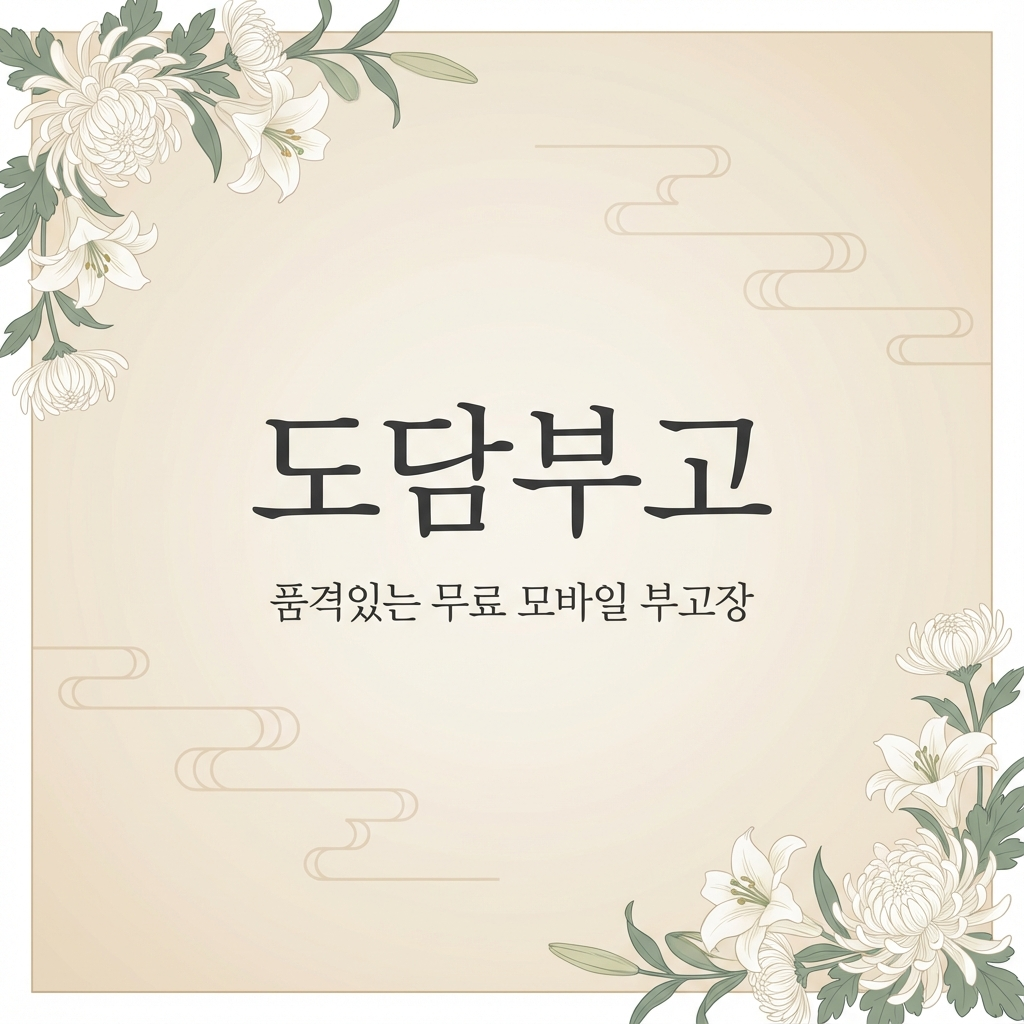
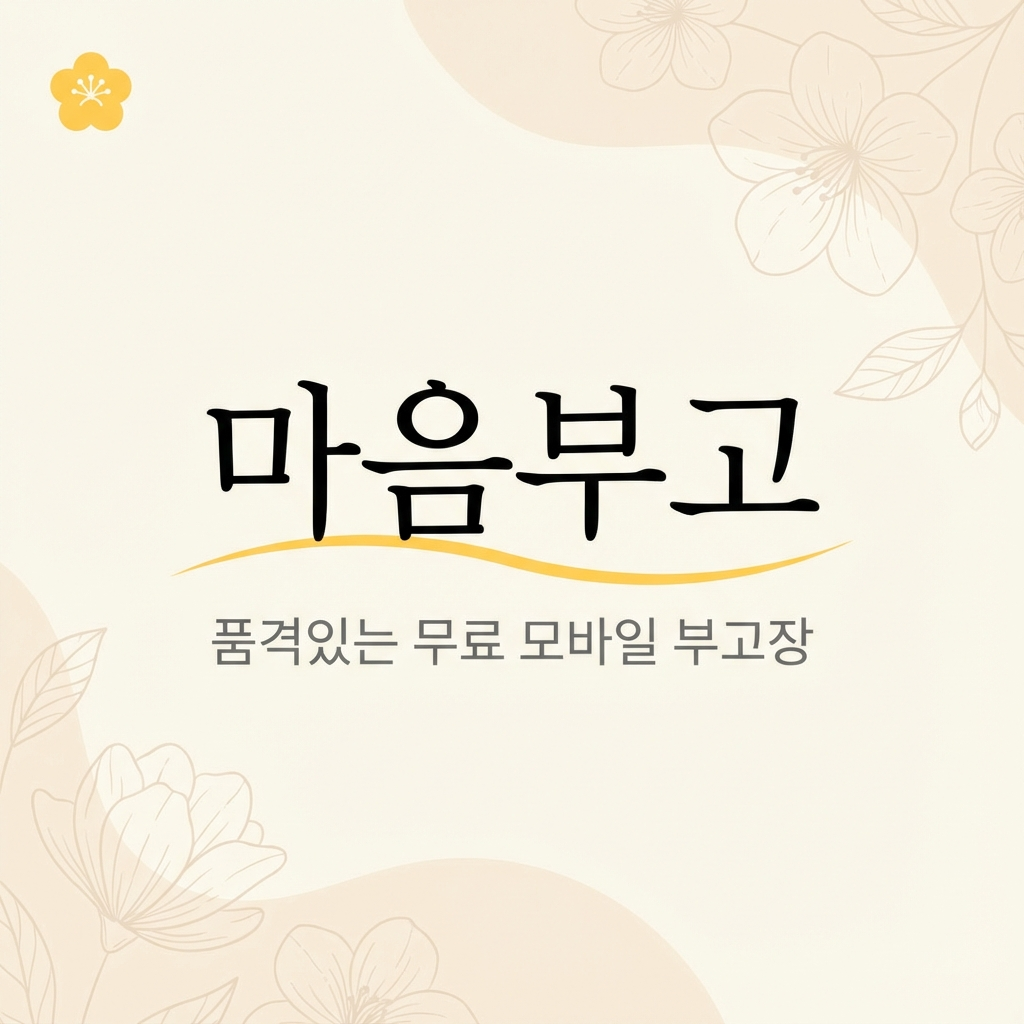
feat: 마음부고 OG 이미지 교체
- 새 브랜드 OG 이미지 생성 및 적용
- TODO 완료 처리

Changed region(s): [[0.0, 0.0, 1.0, 1.0], [0.1875, 0.375, 0.8125, 0.6562]]

diff --git a/app/page.tsx b/app/page.tsx
@@ -116,10 +116,16 @@ export default function HomePage() {
 
       setIsSearching(true);
       try {
+        // 1달 전 날짜 계산
+        const oneMonthAgo = new Date();
+        oneMonthAgo.setDate(oneMonthAgo.getDate() - 30);
+        const oneMonthAgoStr = oneMonthAgo.toISOString().split('T')[0];
+
         const { data, error } = await supabase
           .from('bugo')
           .select('id, bugo_number, deceased_name, mourner_name, funeral_date')
           .or(`deceased_name.ilike.%${searchQuery}%,mourner_name.ilike.%${searchQuery}%`)
+          .gte('funeral_date', oneMonthAgoStr) // 1달 이내만
           .order('created_at', { ascending: false })
           .limit(10);
 
@@ -405,8 +411,8 @@ export default function HomePage() {
           <h2 className="xd-guide-title">부고장 작성방법</h2>
           <div className="xd-guide-card">
             <p className="xd-guide-text">
-              고인 정보와 상주 연락처, 장례 일정만 입력하면 모바일 부고장이 완성됩니다.
-              간단한 정보 입력만으로 정중한 부고장을 만들 수 있습니다.
+              고인 정보와 상주 연락처, 장례 일정만 입력하면 정중한 모바일 부고장이 완성됩니다.
+              카카오톡, 문자, 밴드로 간편하게 전달하세요.
             </p>
           </div>
         </section>
@@ -496,40 +502,47 @@ export default function HomePage() {
           <div className="faq-list">
             <div className={`faq-item ${openFaqs.has(0) ? 'active' : ''}`} onClick={() => toggleFaq(0)}>
               <div className="faq-question">
-                <span>정말 무료인가요?</span>
+                <span>회원가입 없이 이용 가능한가요?</span>
                 <span className="faq-icon">{openFaqs.has(0) ? '−' : '+'}</span>
               </div>
               <div className="faq-answer">
-                네, 마음부고의 모든 기능은 완전히 무료입니다. 숨겨진 비용이나 유료 업그레이드도 없습니다.
+                네, 회원가입이나 로그인 없이 바로 부고장을 만들 수 있습니다. 간단한 정보 입력만으로 완성됩니다.
               </div>
             </div>
             <div className={`faq-item ${openFaqs.has(1) ? 'active' : ''}`} onClick={() => toggleFaq(1)}>
               <div className="faq-question">
-                <span>부고장은 얼마나 유지되나요?</span>
+                <span>앱 설치 없이도 사용할 수 있나요?</span>
                 <span className="faq-icon">{openFaqs.has(1) ? '−' : '+'}</span>
               </div>
               <div className="faq-answer">
-                생성된 부고장은 영구적으로 유지됩니다. 언제든지 링크를 통해 조회할 수 있습니다.
+                네, 별도의 앱 설치 없이 모바일 웹에서 바로 이용 가능합니다. 카카오톡, 문자, 밴드로 공유하세요.
               </div>
             </div>
             <div className={`faq-item ${openFaqs.has(2) ? 'active' : ''}`} onClick={() => toggleFaq(2)}>
               <div className="faq-question">
-                <span>수정은 가능한가요?</span>
+                <span>부고장은 언제까지 유지되나요?</span>
                 <span className="faq-icon">{openFaqs.has(2) ? '−' : '+'}</span>
               </div>
               <div className="faq-answer">
-                네, 작성 시 입력한 비밀번호(휴대번호 뒷자리)로 언제든지 수정하실 수 있습니다.
+                개인정보 보호를 위해 발인 후 30일까지 열람 가능합니다. 이후에는 자동으로 비공개 처리됩니다.
               </div>
             </div>
             <div className={`faq-item ${openFaqs.has(3) ? 'active' : ''}`} onClick={() => toggleFaq(3)}>
               <div className="faq-question">
-                <span>개인정보는 안전한가요?</span>
+                <span>서비스 이용 중 문의는 어떻게 하나요?</span>
                 <span className="faq-icon">{openFaqs.has(3) ? '−' : '+'}</span>
               </div>
               <div className="faq-answer">
-                입력하신 정보는 부고장 표시 목적으로만 사용되며, 별도로 수집하거나 제3자에게 제공하지 않습니다.
+                문의는 제휴/문의 페이지를 통해 가능합니다. 빠른 시간 내에 답변 드리겠습니다.
               </div>
             </div>
+          </div>
+          {/* 더보기 버튼 */}
+          <div className="faq-more-wrapper">
+            <Link href="/faq" className="faq-more-btn">
+              더보기
+              <span className="material-symbols-outlined">chevron_right</span>
+            </Link>
           </div>
         </div>
       </section>

diff --git a/app/search/page.tsx b/app/search/page.tsx
@@ -15,13 +15,21 @@ export default function SearchPage() {
     const [currentPage, setCurrentPage] = useState(1);
     const itemsPerPage = 10;
 
-    // 최근 부고 목록 불러오기
+    // 1달 전 날짜 계산
+    const getOneMonthAgo = () => {
+        const date = new Date();
+        date.setDate(date.getDate() - 30);
+        return date.toISOString().split('T')[0];
+    };
+
+    // 최근 부고 목록 불러오기 (1달 이내만)
     useEffect(() => {
         const fetchRecentBugo = async () => {
             try {
                 const { data, error } = await supabase
                     .from('bugo')
                     .select('*')
+                    .gte('funeral_date', getOneMonthAgo())
                     .order('created_at', { ascending: false })
                     .limit(100);
 
@@ -47,6 +55,7 @@ export default function SearchPage() {
                 .from('bugo')
                 .select('*')
                 .or(`bugo_number.eq.${query},deceased_name.ilike.%${query}%,mourner_name.ilike.%${query}%`)
+                .gte('funeral_date', getOneMonthAgo())
                 .order('created_at', { ascending: false })
                 .limit(100);
 

diff --git a/app/view/[id]/page.tsx b/app/view/[id]/page.tsx
@@ -258,6 +258,28 @@ ${url}
         );
     }
 
+    // 1달 이상 지난 부고는 비공개 처리
+    const isExpired = () => {
+        if (!bugo.funeral_date) return false;
+        const funeralDate = new Date(bugo.funeral_date);
+        const oneMonthAgo = new Date();
+        oneMonthAgo.setDate(oneMonthAgo.getDate() - 30);
+        return funeralDate < oneMonthAgo;
+    };
+
+    if (isExpired()) {
+        return (
+            <div className="error-container">
+                <div className="error-content">
+                    <div className="error-icon">🕊</div>
+                    <h2>열람 기간이 종료되었습니다</h2>
+                    <p>개인정보 보호를 위해 발인 후 30일이 지난 부고장은 비공개 처리됩니다.</p>
+                    <Link href="/" className="btn-home">홈으로</Link>
+                </div>
+            </div>
+        );
+    }
+
     // 상주 목록 (대표상주 + 추가 상주들, 중복 방지)
     const mournersList: Array<{ relationship: string; name: string; contact: string }> = [];
     if (bugo.mourner_name) {

diff --git a/app/globals.css b/app/globals.css
@@ -909,6 +909,35 @@ section {
     padding: 12px 16px 16px 32px;
 }
 
+/* FAQ 더보기 버튼 */
+.faq-more-wrapper {
+    display: flex;
+    justify-content: center;
+    margin-top: 24px;
+}
+
+.faq-more-btn {
+    display: inline-flex;
+    align-items: center;
+    gap: 4px;
+    padding: 12px 24px;
+    background: #F5F5F5;
+    color: #333333;
+    border-radius: 50px;
+    font-size: 14px;
+    font-weight: 500;
+    text-decoration: none;
+    transition: all 0.2s;
+}
+
+.faq-more-btn:hover {
+    background: #EEEEEE;
+}
+
+.faq-more-btn .material-symbols-outlined {
+    font-size: 18px;
+}
+
 /* ========================================
    Footer
    ======================================== */

diff --git a/PROJECT_STRATEGY.md b/PROJECT_STRATEGY.md
@@ -1,0 +1,103 @@
+# 마음부고 프로젝트 전략
+
+> 최종 업데이트: 2026-01-02
+
+---
+
+## 🎯 프로젝트 정의
+
+**마음부고 = 캐시카우**
+
+모바일 부고장 생성 서비스로 즉시 수익 창출
+
+---
+
+## 💰 수익 모델
+
+| 항목 | 구조 | 건당 순익 |
+|------|------|----------|
+| 화환 | 원가 6만 → 판매 11만 | **5만원** |
+| 부의금 | 8.6% 수수료 (10.86만 × 3건) | **2.6만원** |
+| 답례품 | 200~1000원 × 1~100개 | **~1만원** |
+| **합계** | | **8.5만원** |
+
+---
+
+## 📊 광고 전략
+
+### 네이버 검색 광고
+
+| 항목 | 수치 |
+|------|------|
+| 월 예산 | 100만원 |
+| 평균 CPC | 600원 |
+| 월 클릭 | 1,700명 |
+
+### 주요 키워드 (CPC)
+
+- 모바일부고: 800원
+- 모바일부고장: 800원
+- 부고장: 740원
+- 부고문자: 900원
+- 부고알림: 600원
+
+---
+
+## 📈 수익 예측
+
+| 전환율 | 부고장 수 | 월 순익 |
+|--------|----------|--------|
+| 1% | 17건 | 44만원 |
+| 2% | 33건 | 180만원 |
+| 3% | 50건 | 325만원 |
+| 10% (목표) | 170건 | 1,345만원 |
+
+---
+
+## 🏗 현재 상태 (2026-01)
+
+### 완료
+- [x] 부고장 생성 플로우
+- [x] 템플릿 4종 (basic, ribbon, border, flower)
+- [x] 미리보기 페이지
+- [x] Admin 페이지
+- [x] 자동저장 기능
+- [x] 장례식장 검색
+
+### 미완료
+- [ ] PG 연동 (사업자 필요)
+- [ ] 화환 주문 시스템
+- [ ] 부의금 결제 시스템
+- [ ] 카카오 알림톡
+
+---
+
+## 📋 사업자 등록 후 TODO
+
+1. 사업자등록 (세무서/홈택스)
+2. 통신판매업 신고 (구청)
+3. 사업자 통장 개설
+4. PG사 가입 (토스페이먼츠)
+5. 결제 연동 개발
+6. 푸터에 사업자정보 추가
+
+---
+
+## 🚀 확장 계획
+
+1. 1단계: 마음부고로 캐시플로우 확보
+2. 2단계: 수익으로 대대손손 광고비 투자
+3. 3단계: 사이트 복제 (브랜드 2개 운영)
+4. 4단계: 2번째 사이트에 소셜 로그인 추가
+
+---
+
+## 📞 Owner
+
+- 역할: PM/PO/디자이너/전략기획
+- 상황: 육아휴직 → 퇴사 예정
+- 목표: 독립 사업
+
+---
+
+*이 문서는 프로젝트 방향성 확인용입니다.*

diff --git a/docs/TODO.md b/docs/TODO.md
@@ -85,7 +85,7 @@
 ## 🟡 나중에 할 것
 
 ### OG 이미지 교체 (선택)
-- [ ] `/public/images/og-image.png` 새로 만들기 (마음부고 브랜드)
+- [x] `/public/og-image.png` 새로 만들기 (마음부고 브랜드)
 
 ---
 
@@ -125,14 +125,31 @@
   - [ ] `/thanks/[id]` 페이지
   - [ ] 공유 기능 (카카오톡, 문자)
 
+### 공유 기능 확장
+- [ ] **밴드 공유 API** 연동
+  - [ ] 네이버 밴드 공유 버튼 추가
+  - [ ] 부고 뷰 페이지에 밴드 공유 옵션
+
 ---
 
 ## 🟡 수익화 기능 (사업자 필요)
 
-### 조의금
-- [ ] 모바일 조의금 결제 페이지
-- [ ] 상주 계좌 정산 시스템
-- [ ] 수수료 자동 계산
+### 조의금/부의금 시스템
+- [ ] **PG 계약**
+  - [ ] 이노페이 PG 계약 진행
+  - [ ] 결제 모듈 연동
+- [ ] **쿠콘 API 연동**
+  - [ ] 예치금 관리 시스템
+  - [ ] 상주 계좌로 자동 송금
+  - [ ] 입금 확인 알림
+- [ ] **부의금 페이지**
+  - [ ] 모바일 조의금 결제 UI
+  - [ ] 조문객 정보 입력 (이름, 연락처)
+  - [ ] 금액 선택/직접 입력
+- [ ] **정산 시스템**
+  - [ ] 상주 계좌 정산
+  - [ ] 수수료 자동 계산 및 차감
+  - [ ] 정산 내역 어드민 페이지
 
 ### 답례품
 - [ ] 답례품 상품 페이지
@@ -149,6 +166,11 @@
 - [ ] **부의금 UI/UX 개선**
   - [ ] 부의금 보내기 버튼/모달 디자인
   - [ ] 계좌 정보 표시 방식
+- [ ] **발인 완료 상태 UI**
+  - [ ] 발인 끝난 부고 뷰 페이지 디자인
+  - [ ] 검은 리본 + "발인이 끝난 고인입니다" 메시지
+  - [ ] 장례식장 정보는 유지 (주소, 지도 등)
+  - [ ] 화환/부의금 버튼 비활성화 또는 숨김
 - [ ] 부고장 생성 완료율 ↑
 - [ ] 모바일 최적화 점검
 - [ ] 로딩 속도 개선
